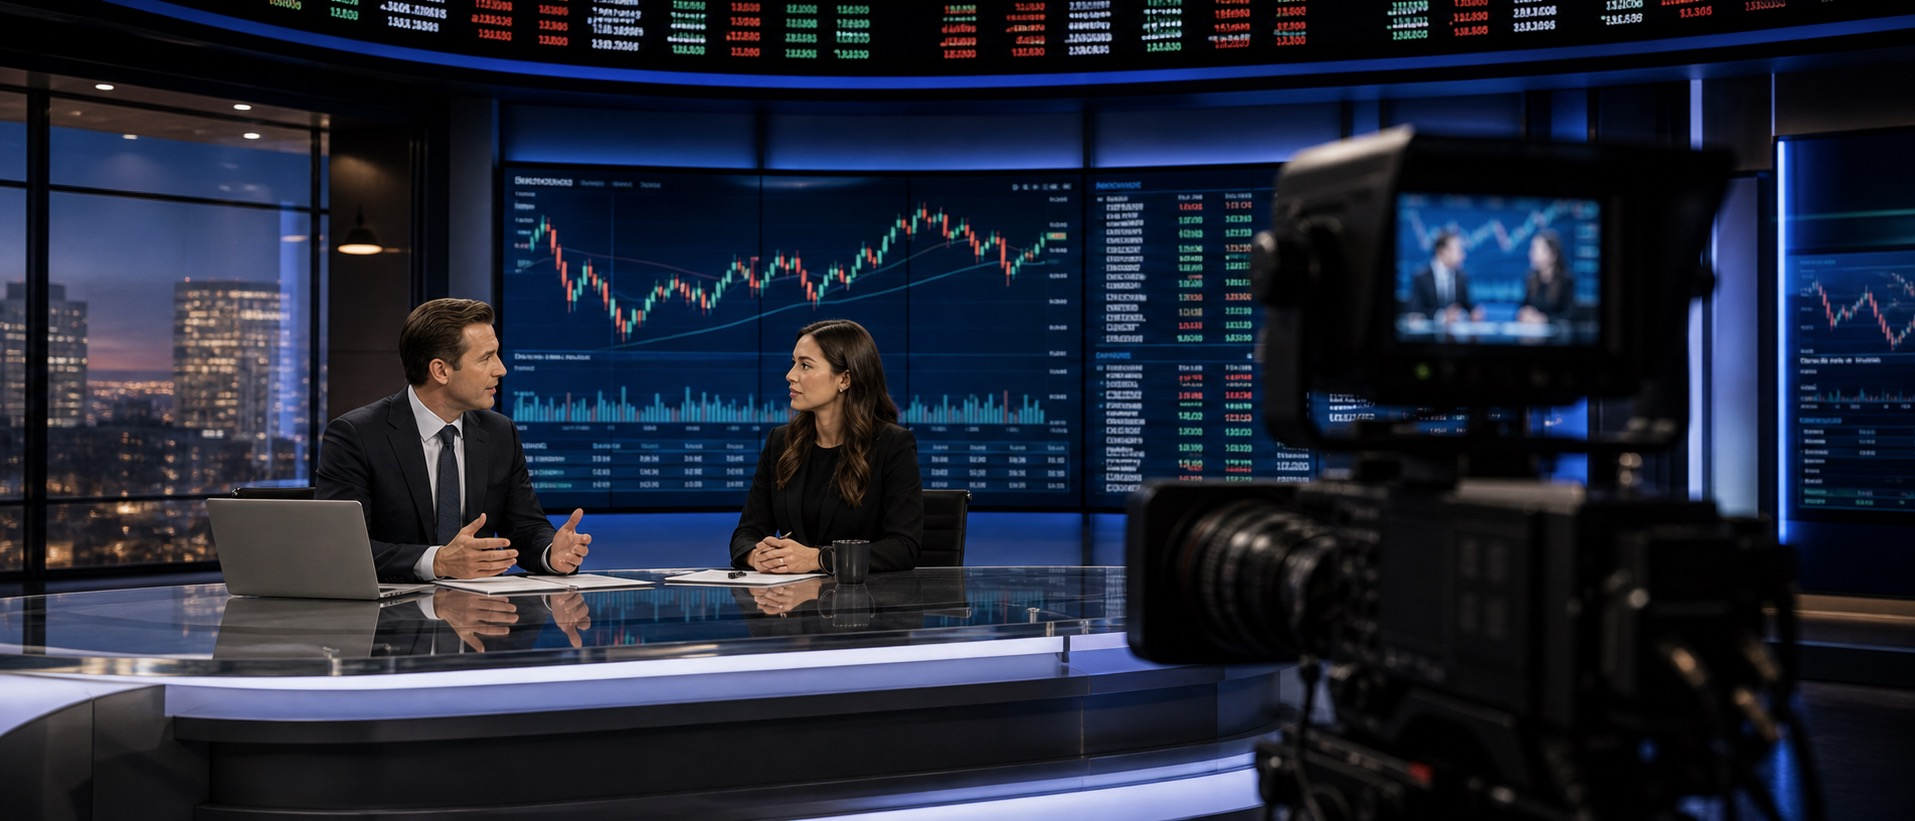
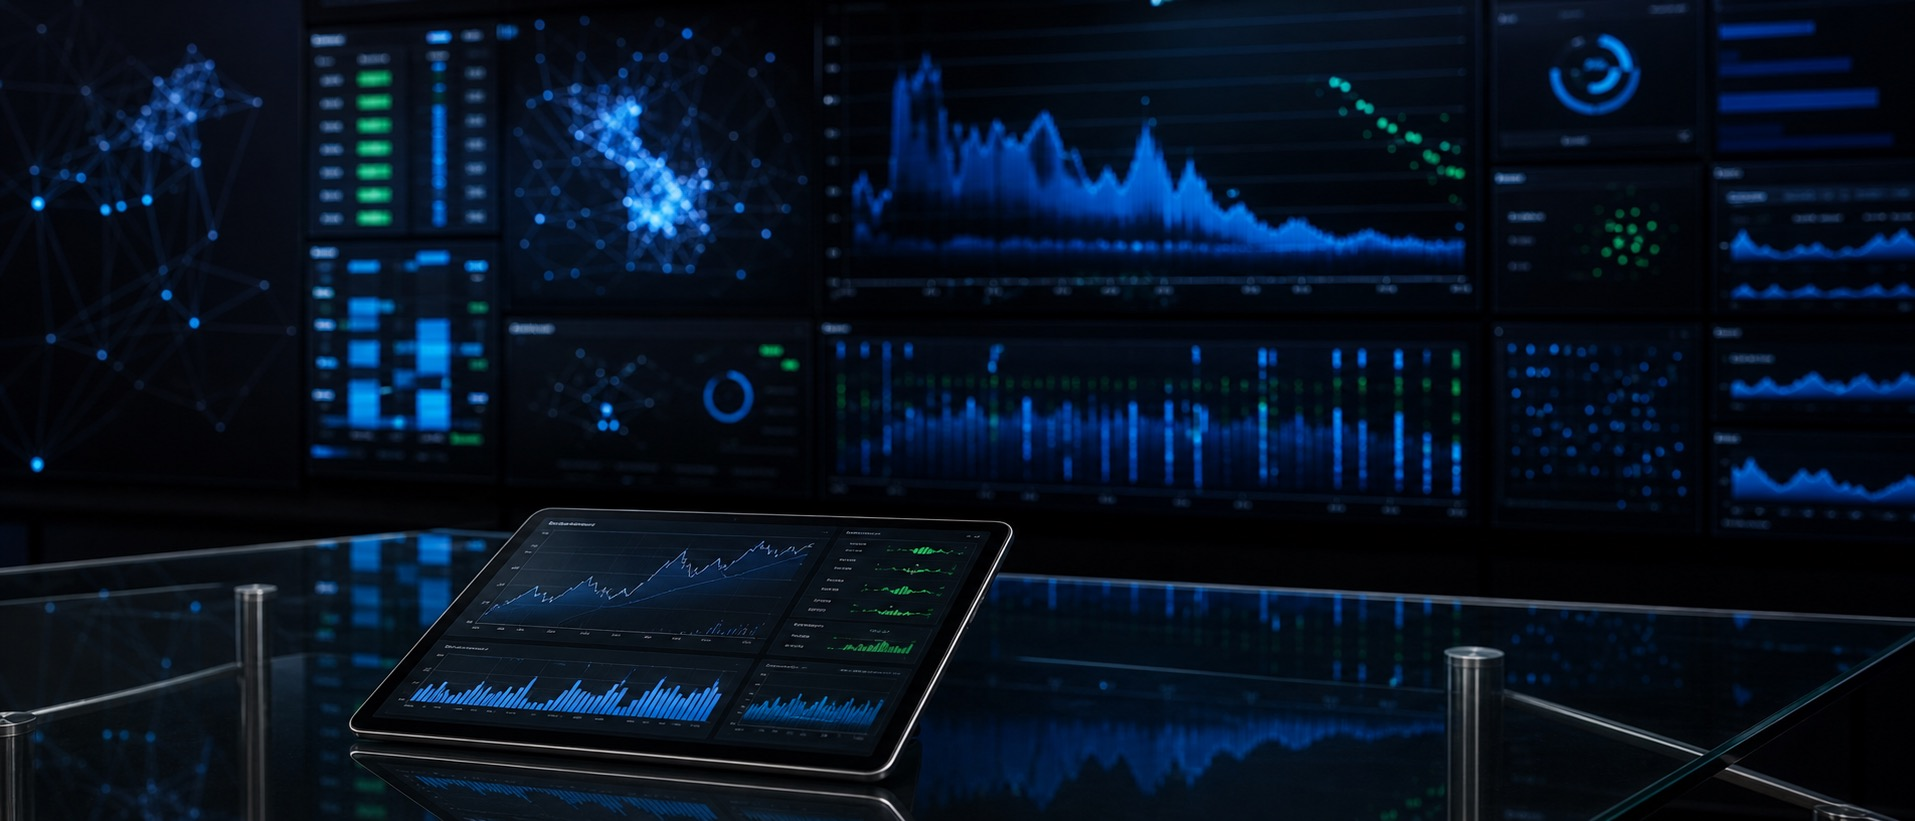
Codex updates: content, styles, assets

diff --git a/index.html b/index.html
@@ -56,7 +56,6 @@
       },
       "contactPoint": {
         "@type": "ContactPoint",
-        "email": "owner@tickerforce.com",
         "contactType": "sales"
       }
     },
@@ -69,7 +68,7 @@
           "name": "Is tickerforce.com available for purchase?",
           "acceptedAnswer": {
             "@type": "Answer",
-            "text": "tickerforce.com is currently available for purchase. Send an enquiry directly to owner@tickerforce.com. Brokers are welcome and confidentiality is assumed."
+            "text": "tickerforce.com is currently available for purchase. Use the contact form to send an enquiry. Brokers are welcome and confidentiality is assumed."
           }
         },
         {
@@ -77,7 +76,7 @@
           "name": "How do I make an offer on tickerforce.com?",
           "acceptedAnswer": {
             "@type": "Answer",
-            "text": "Use the contact form on this page or email owner@tickerforce.com directly with your offer. The owner reads all enquiries personally and responds to serious offers promptly."
+            "text": "Use the contact form on this page with your offer. The owner reads all enquiries personally and responds to serious offers promptly."
           }
         },
         {
@@ -128,13 +127,12 @@
       <div class="hero__right">
         <p class="hero__sub"><strong>TICKERFORCE.COM</strong> is available for purchase. One possible direction: a real-time financial news network and market intelligence platform delivering breaking market news, earnings analysis, unusual options activity alerts, and institutional flow data to active traders and self-directed investors through a single, fast, ad-light interface.</p>
         <div class="hero__cta">
-          <a class="btn-primary btn-primary--lg" href="mailto:owner@tickerforce.com?subject=Offer%20on%20TICKERFORCE.COM">Make an offer <span aria-hidden="true">→</span></a>
+          <a class="btn-primary btn-primary--lg" href="#acquire">Make an offer <span aria-hidden="true">→</span></a>
           <a class="btn-outline" href="#focus">Platform overview</a>
         </div>
       </div>
     </div>
-    <!-- Replace with: <img src="assets/hero.jpg" alt="Financial news broadcast studio with live market data tickers and screens" class="hero__img" /> -->
-    <img src="assets/hero.jpg" alt="Financial news broadcast studio with live market data tickers and screens" class="hero__img" />
+<img src="assets/hero.jpg" alt="Financial news broadcast studio with live market data tickers and screens" class="hero__img" />
   </div>
 </section>
 
@@ -169,7 +167,7 @@
       <div class="focus__item">
         <p class="focus__item-n">03</p>
         <h3 class="focus__item-hed">Alert infrastructure</h3>
-        <p class="focus__item-body">A customisable alert engine delivering push notifications, SMS, and email alerts when user-defined conditions are met: price thresholds, volume spikes, options flow events, earnings call start times, and news mentions. Alerts can be routed to Discord servers, Slack workspaces, and Telegram channels, allowing traders to share signal streams with their communities or embed TickerForce intelligence directly into their existing trading workflows.</p>
+        <p class="focus__item-body">A customisable alert engine delivering push notifications, SMS, and message alerts when user-defined conditions are met: price thresholds, volume spikes, options flow events, earnings call start times, and news mentions. Alerts can be routed to Discord servers, Slack workspaces, and Telegram channels, allowing traders to share signal streams with their communities or embed TickerForce intelligence directly into their existing trading workflows.</p>
       </div>
     </div>
   </div>
@@ -222,15 +220,14 @@
     <p class="acquire__eyebrow"><span class="acquire__eyebrow-dot" aria-hidden="true"></span>The asset is the address</p>
     <h2 class="acquire__title">Purchase <em>TICKERFORCE.COM</em>.</h2>
     <p class="acquire__lede">Send a note. Offers, partnerships, and serious enquiries are read by the owner directly. Brokers welcome. Confidentiality assumed.</p>
-    <form class="acquire-form" action="mailto:owner@tickerforce.com" method="post" enctype="text/plain">
+    <form class="acquire-form" action="#" method="post" enctype="text/plain">
       <div class="acquire-form__row">
         <label class="field"><span class="field__label">Name</span><input type="text" name="name" required autocomplete="name" /></label>
-        <label class="field"><span class="field__label">Email</span><input type="email" name="email" required autocomplete="email" placeholder="you@company.com" /></label>
+        <label class="field"><span class="field__label">Reply contact</span><input type="email" name="email" required autocomplete="email" placeholder="Where should we reply?" /></label>
       </div>
       <label class="field"><span class="field__label">Offer or message</span><textarea name="message" rows="3" placeholder="A few lines is plenty."></textarea></label>
       <div class="acquire-form__actions">
         <button class="btn-primary btn-primary--lg" type="submit">Send enquiry <span aria-hidden="true">→</span></button>
-        <p class="acquire-form__alt">Or write to <a href="mailto:owner@tickerforce.com">owner@tickerforce.com</a></p>
       </div>
     </form>
   </div>
@@ -242,11 +239,11 @@
     <div class="faq__list">
       <div class="faq__item">
         <h3 class="faq__q">Is tickerforce.com available for purchase?</h3>
-        <p class="faq__a">tickerforce.com is currently available for purchase. Send an enquiry directly to owner@tickerforce.com. Brokers are welcome and confidentiality is assumed on all enquiries.</p>
+        <p class="faq__a">tickerforce.com is currently available for purchase. Use the contact form to send an enquiry. Brokers are welcome and confidentiality is assumed on all enquiries.</p>
       </div>
       <div class="faq__item">
         <h3 class="faq__q">How do I make an offer on tickerforce.com?</h3>
-        <p class="faq__a">Use the contact form above or email owner@tickerforce.com directly with your offer or message. The owner reads all enquiries personally and responds to serious offers promptly.</p>
+        <p class="faq__a">Use the contact form on this page with your offer or message. The owner reads all enquiries personally and responds to serious offers promptly.</p>
       </div>
       <div class="faq__item">
         <h3 class="faq__q">Who is selling tickerforce.com?</h3>

diff --git a/styles.css b/styles.css
@@ -59,8 +59,7 @@ a { color: inherit; text-decoration: none; }
   object-fit: cover;
   border-radius: 12px 12px 0 0;
   display: block;
-  /* Replace with: <img src="assets/hero.jpg" alt="Financial news broadcast studio with live market data feeds" class="hero__img" /> */
-  background: linear-gradient(160deg, #1a0808 0%, #0f0606 40%, #0F1117 100%);
+background: linear-gradient(160deg, #1a0808 0%, #0f0606 40%, #0F1117 100%);
 }
 
 /* Ticker tape */
@@ -157,3 +156,70 @@ a { color: inherit; text-decoration: none; }
 .faq__item { padding: 1.5rem 0; border-bottom: 1px solid var(--rule); }
 .faq__q { font-family: var(--ff-serif); font-size: 1.05rem; font-weight: 700; color: var(--white); margin-bottom: .5rem; }
 .faq__a { font-size: .9rem; line-height: 1.75; color: var(--ash); }
+
+/* --- Mobile overflow hardening --- */
+html,
+body {
+  max-width: 100%;
+  overflow-x: clip;
+}
+
+body {
+  overscroll-behavior-x: none;
+}
+
+img,
+svg,
+video,
+canvas {
+  max-width: 100%;
+  height: auto;
+}
+
+main,
+section,
+header,
+footer,
+nav,
+form,
+fieldset,
+[class*="__inner"],
+[class*="__grid"],
+[class*="__row"],
+[class*="__cols"],
+[class*="__card"],
+[class*="__item"] {
+  min-width: 0;
+}
+
+input,
+textarea,
+select,
+button {
+  max-width: 100%;
+  min-width: 0;
+}
+
+p,
+h1,
+h2,
+h3,
+h4,
+h5,
+h6,
+a,
+li,
+span {
+  overflow-wrap: anywhere;
+}
+
+@media (max-width: 480px) {
+  .btn,
+  .btn-primary,
+  .btn-ghost,
+  [class*="btn"],
+  [class*="button"] {
+    max-width: 100%;
+    white-space: normal;
+  }
+}
